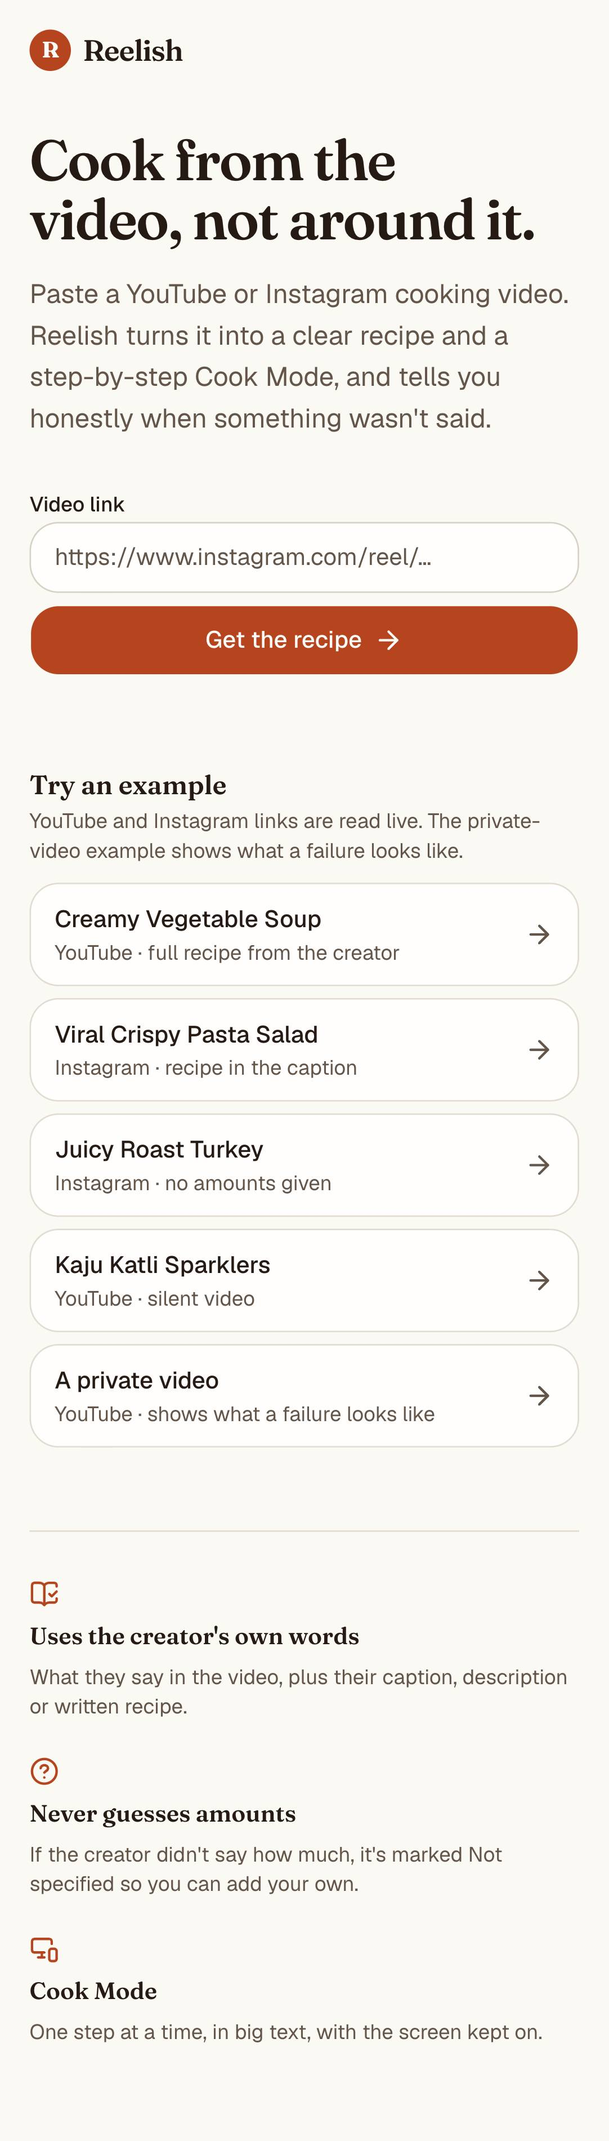
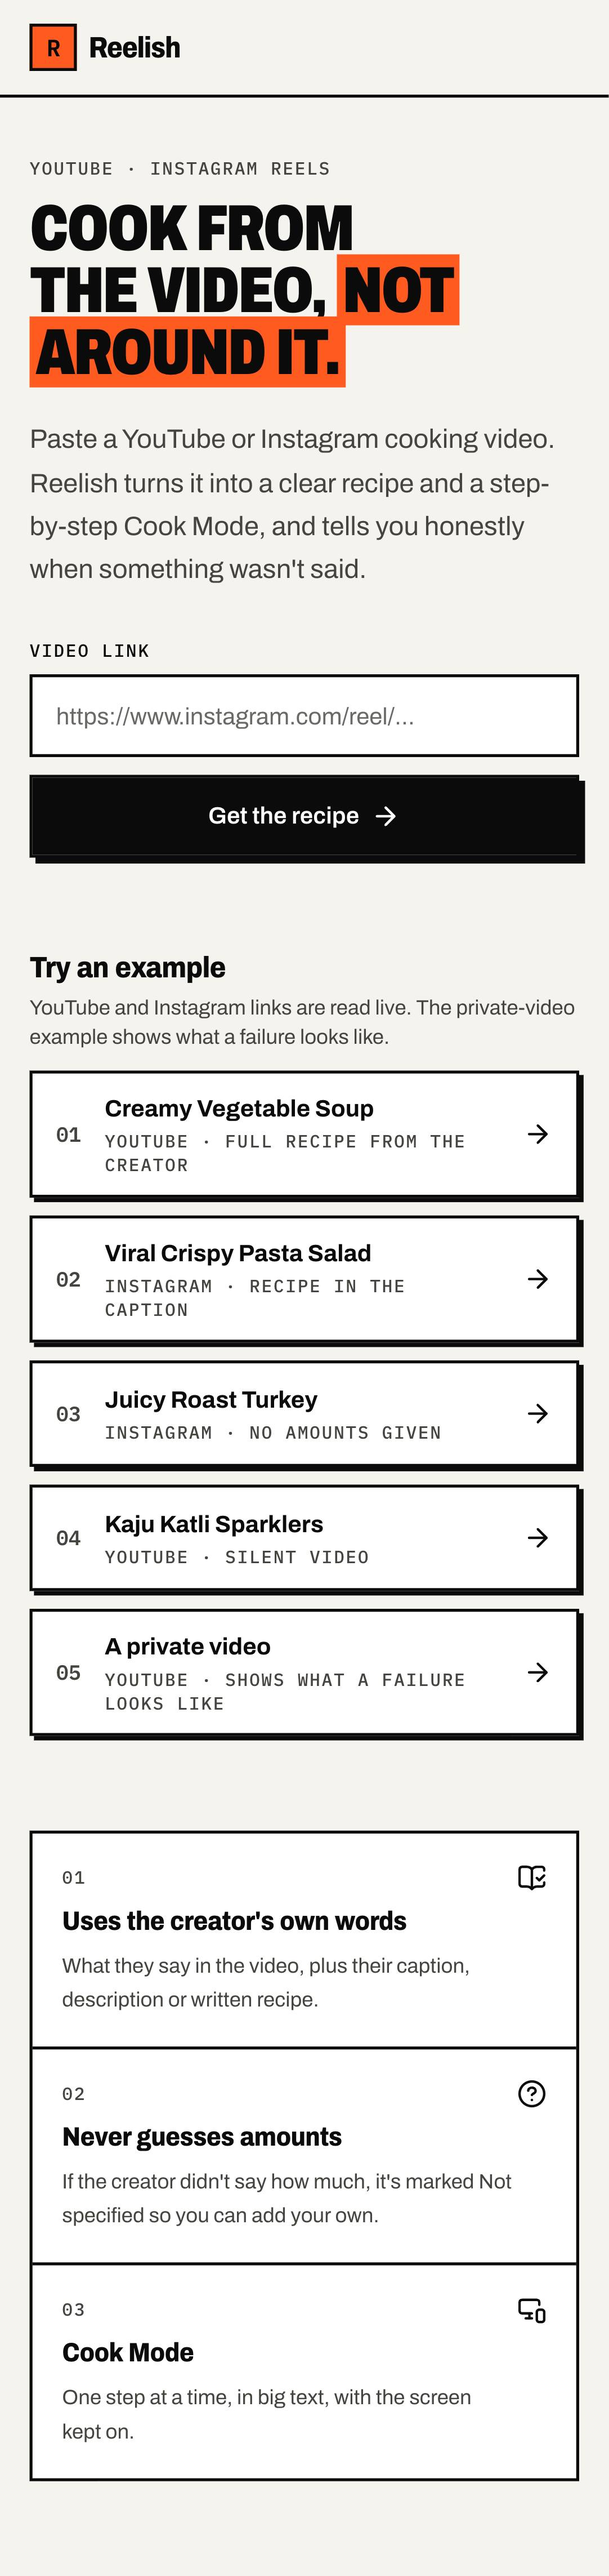
Docs: live release is 384b6e2 (redesign); production screenshots refreshed from the live site (42/42, cached, $0)

diff --git a/docs/DEPLOYMENT.md b/docs/DEPLOYMENT.md
@@ -1,6 +1,7 @@
 # Deployment: Reelish on the shared VPS
 
-**Status: live at <https://deepclean.app/reelish>** since 2026-11-22 IST. First release `4d6083c`; now `af44fbb`, which adds a small start-form fix. The server also runs
+**Status: live at <https://deepclean.app/reelish>** since 2026-11-22 IST. First release `4d6083c`; then `af44fbb` (start-form fix); now `384b6e2` (brutalist redesign). The previous
+release is kept on the server for rollback. The server also runs
 DeepClean.app and a few other small apps owned by the same person. Reelish shares only the machine and the
 Nginx process.
 DeepClean's files, database, Node and services were not touched.
